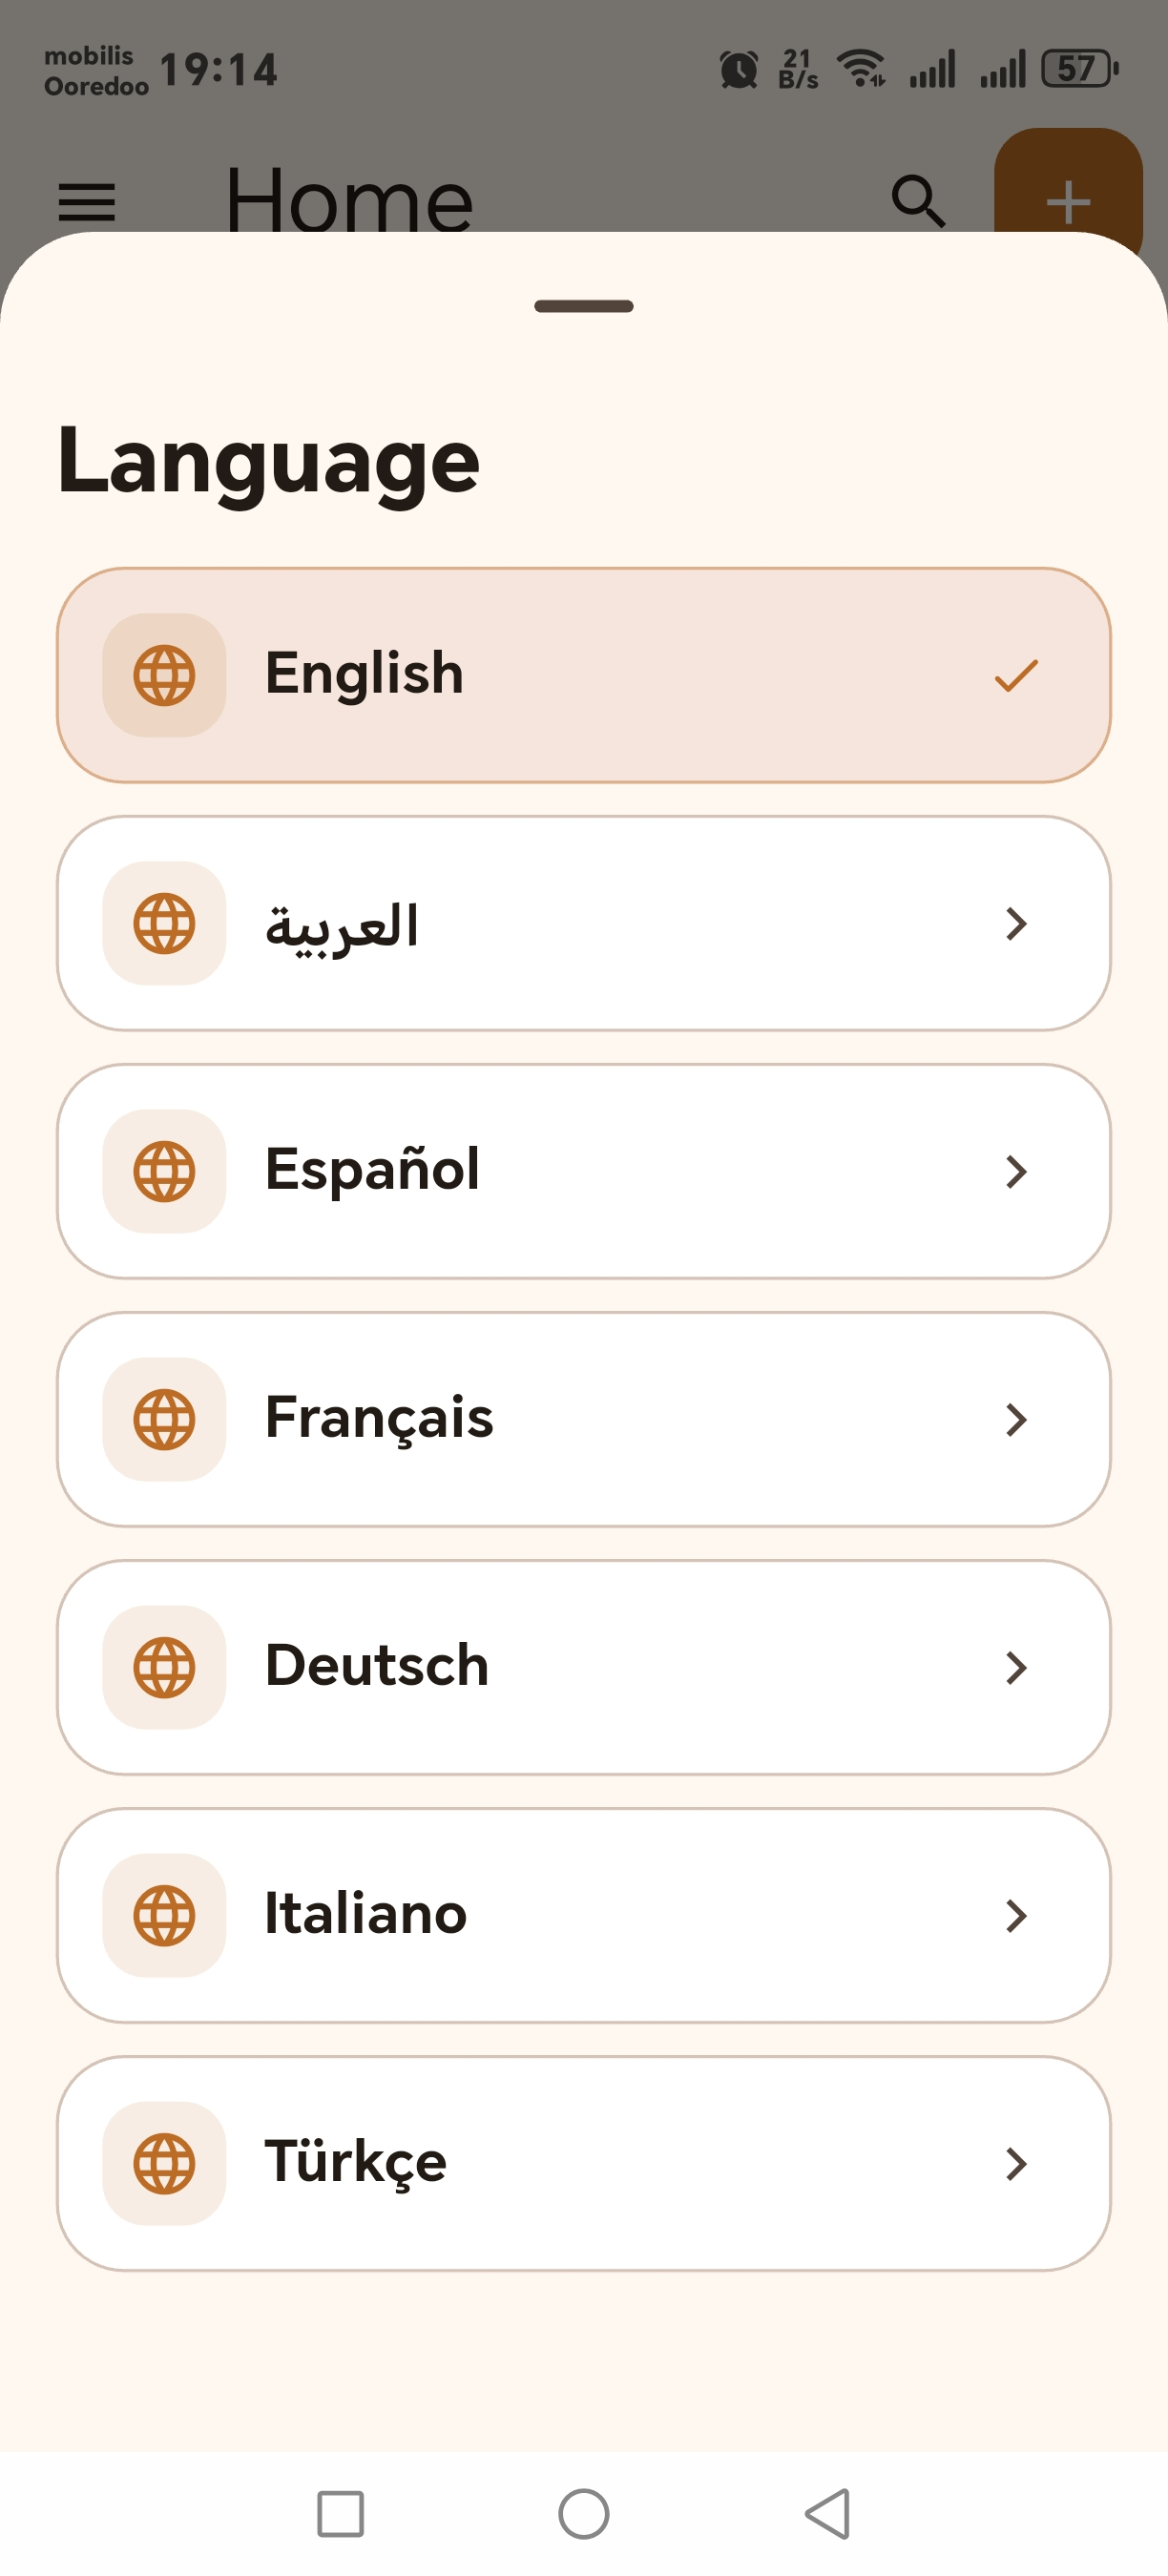
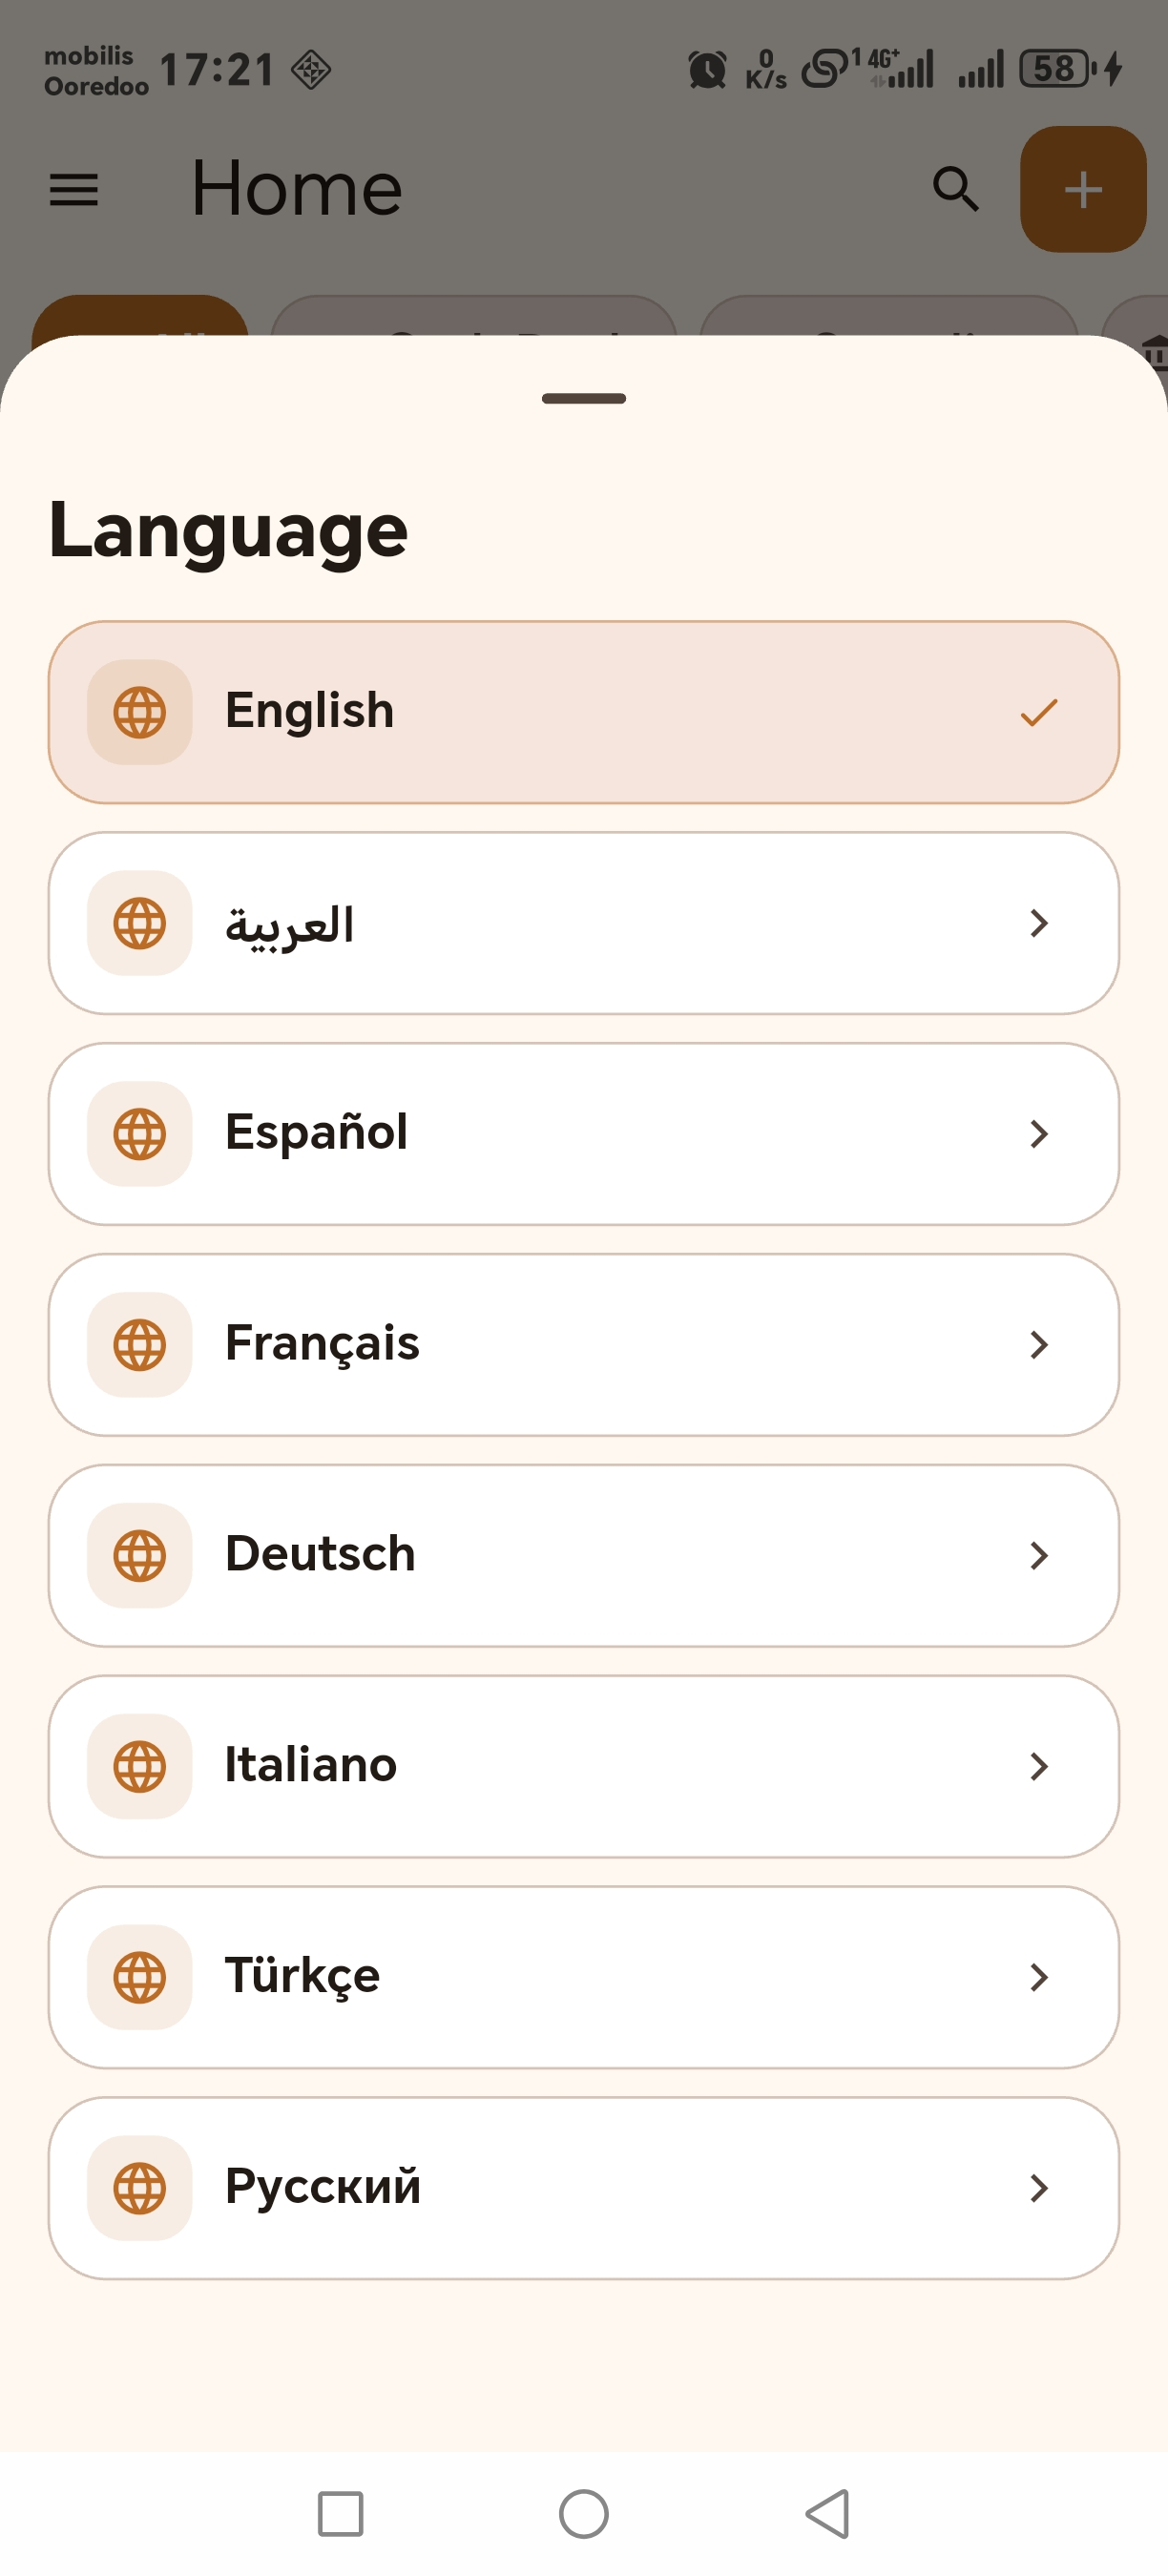
Update language screenshot

diff --git a/index.html b/index.html
@@ -935,7 +935,7 @@
               </figure>
               <figure class="aspect-[9/16] overflow-hidden rounded-3xl border border-line bg-slate-50 shadow-soft">
                 <img
-                  src="assets/images/language.jpg"
+                  src="assets/images/language.jpg?v=20260618-1"
                   alt="Language selection screenshot"
                   class="h-full w-full object-contain bg-slate-50 p-2"
                   loading="lazy"